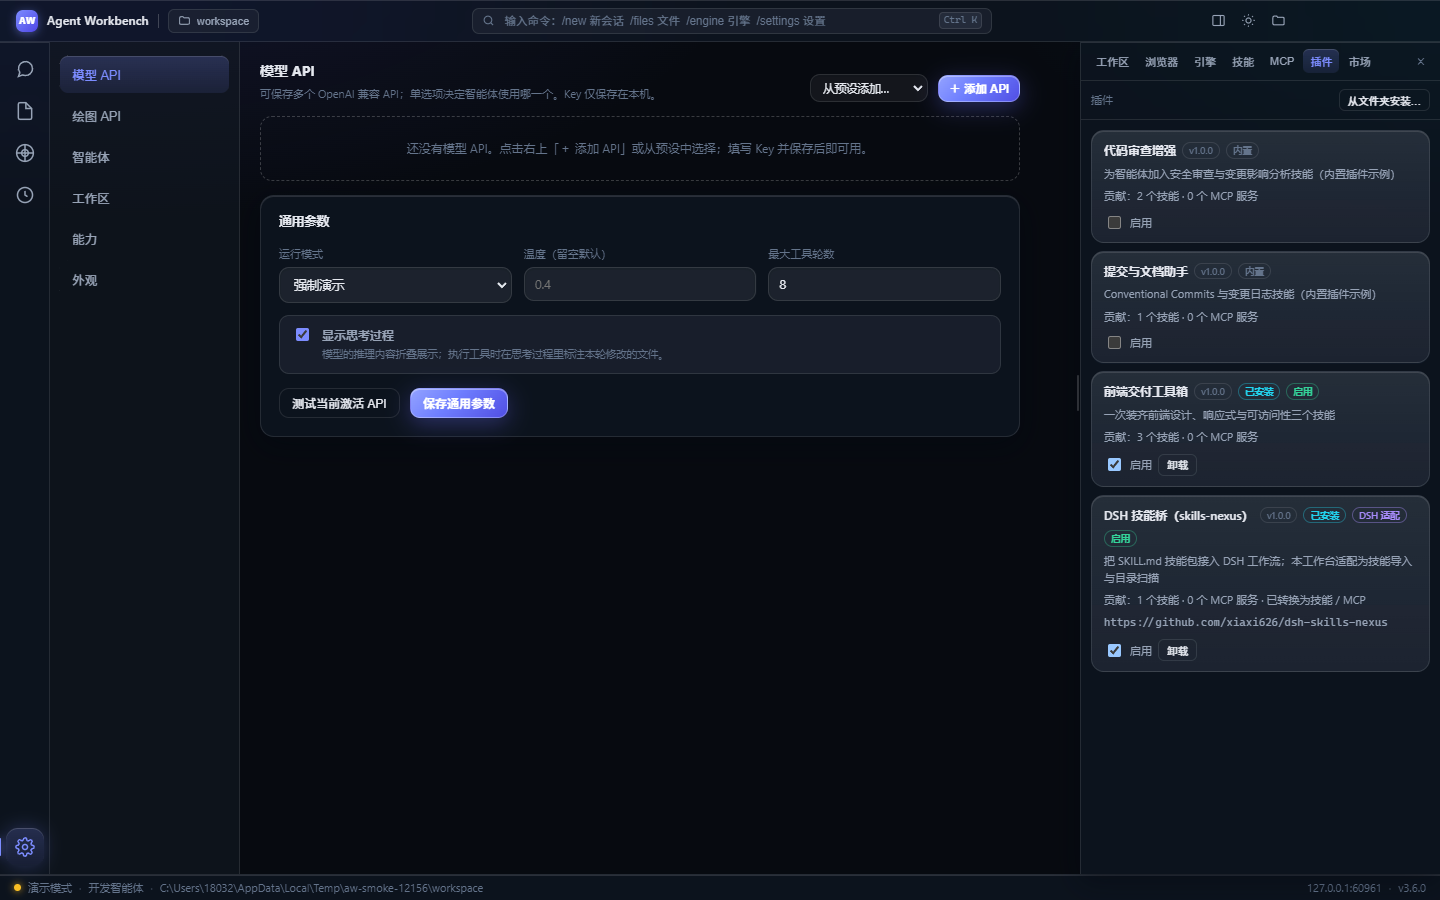
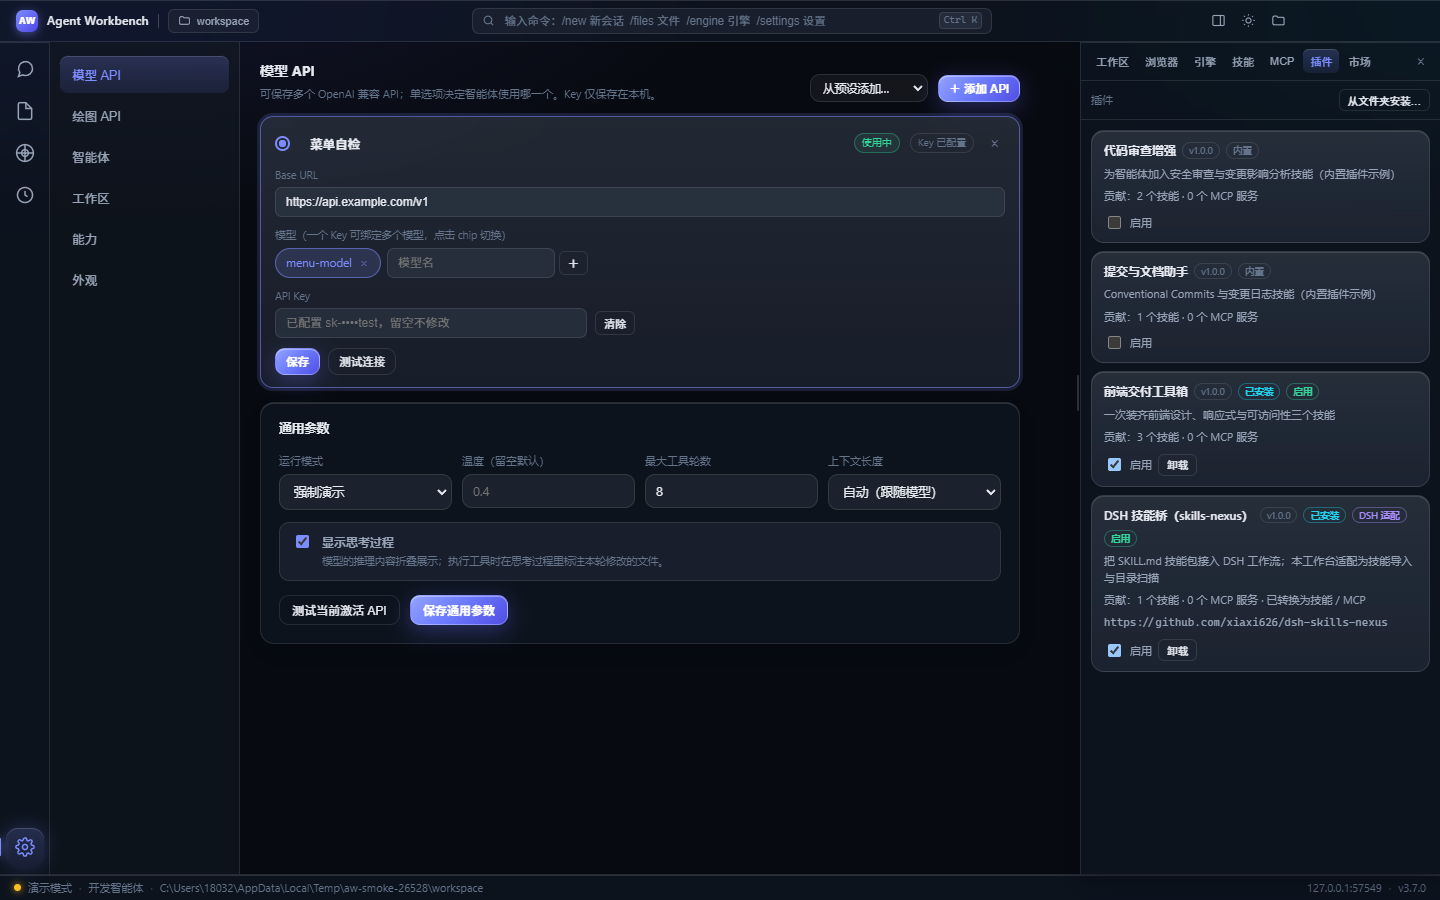
docs: v3.7.0 输入框模型/上下文、自动检测与界面精简

Changed region(s): [[0.1562, 0.1244, 0.7188, 0.7156], [0.6875, 0.4044, 0.7188, 0.4356], [0.5312, 0.28, 0.5625, 0.3111]]

diff --git a/README.md b/README.md
@@ -3,7 +3,7 @@
 > 一个把「对话、工具调用、智能体团队、网页 / 游戏创作引擎、技能、MCP 与插件市场」收进同一个桌面窗口的 AI 开发工作台。
 > 数据、模型密钥与项目文件全部留在本机，便携版解压即用。
 
-当前版本 **v3.6.0**，基于 Electron 33，主进程内嵌零依赖本地服务，界面为原生 HTML/CSS/JS，无前端构建链。
+当前版本 **v3.7.0**，基于 Electron 33，主进程内嵌零依赖本地服务，界面为原生 HTML/CSS/JS，无前端构建链。
 
 ![对话与工具时间线](screenshots/01-chat.png)
 
@@ -24,7 +24,7 @@ Agent Workbench 的思路是把整套开发闭环搬进桌面：
 
 | 模块 | 能力 |
 |---|---|
-| 对话 | SSE 流式输出；可折叠思考过程（可在设置关闭，并标注本轮修改的文件）；工具调用时间线；停止生成；Markdown 渲染；图片灯箱 |
+| 对话 | SSE 流式输出；可折叠思考过程（标注修改文件）；输入框右下角模型 / 上下文菜单；工具调用时间线；停止生成；Markdown 渲染；图片灯箱 |
 | 工具 | `list_dir` `read_file` `write_file` `search_files` `run_command` `generate_image` `web_engine`（最多 8 轮可调） |
 | 智能体 | 多个智能体，独立绑定模型、温度、工具白名单、技能与系统提示词 |
 | 智能体团队 | 负责人拆解子任务 → 成员按序执行 → 负责人汇总，聊天中展示分工卡片与成员流式输出 |
@@ -35,6 +35,14 @@ Agent Workbench 的思路是把整套开发闭环搬进桌面：
 | 创作引擎 | 5 套网页模板 + 3 套 Canvas 游戏模板、独立预览服务器、保存热更新、静态诊断、浏览器运行错误回传（见下节） |
 | 外观 | iOS 液态玻璃、深/亮主题、自定义聊天背景、智能体与团队头像 |
 | 历史 | 会话持久化到本地；任务状态徽标（运行中 / 完成 / 中断 / 失败）与工具、文件统计；可回看、删除、导出 Markdown |
+
+## v3.7.0 更新
+
+- **模型与上下文放到输入框**：模型 chip 移到聊天输入框右下角，点击弹出菜单（参考 Qoder）：按接口分组列出全部模型，显示接口状态与检测到的上下文；下方可直接切换上下文长度（自动 / 8K / 32K / 64K / 128K），「自动」优先使用模型元数据，否则 32K。历史消息按上下文预算自动裁剪。
+- **对话右侧栏移除**：会话状态收为标题栏胶囊（运行中 / 已完成 / 已中断 / 失败 + 工具数），悬停查看消息、工具、文件、图片统计；聊天区更宽，更接近 Qoder 布局。
+- **模型 API 自动检测（参考 DSH）**：新建 API 填写 Base URL / Key 后点击「自动检测」，请求 `/models` 自动补全模型、过滤 embedding / 图像等非对话模型、读取 `context_length` 并推荐模型；自动识别 DeepSeek / 通义 / 智谱 / Kimi / OpenAI，鉴权失败明确提示 401/403。
+
+![输入框模型与上下文菜单](screenshots/18-model-menu.png)
 
 ## v3.6.0 更新
 
@@ -114,7 +122,7 @@ Agent Workbench 的思路是把整套开发闭环搬进桌面：
 
 ## 快速开始
 
-从 [Releases](https://github.com/1323107439/agent-workbench/releases/tag/v3.6.0) 下载 `AgentWorkbench-3.6.0-portable.exe`（约 71MB），双击即可运行，无需安装（未签名，SmartScreen 提示时选择"仍要运行"）。
+从 [Releases](https://github.com/1323107439/agent-workbench/releases/tag/v3.7.0) 下载 `AgentWorkbench-3.7.0-portable.exe`（约 71MB），双击即可运行，无需安装（未签名，SmartScreen 提示时选择"仍要运行"）。
 
 1. 标题栏文件夹按钮选择工作区；设置 → 模型 API 添加 OpenAI 兼容端点（OpenAI / DeepSeek / 通义 / 智谱 / Kimi / Ollama 预设，或手填 Base URL / Key / 模型）。
 2. 未填 Key 时自动进入演示模式：流式回复、扫描工作区、演示生图（本地 SVG），可先验证功能。
@@ -126,7 +134,7 @@ Agent Workbench 的思路是把整套开发闭环搬进桌面：
 ```bash
 npm install
 npm start          # 桌面窗口
-npm run smoke      # 无头自检（37 项，含截图）
+npm run smoke      # 无头自检（39 项，含截图）
 npm run build      # 打包 release/AgentWorkbench-<版本>-portable.exe
 ```
 
@@ -147,7 +155,7 @@ public/               液态玻璃界面（原生 HTML/CSS/JS，无构建）
 
 ## 质量验证
 
-- 开发版 `npm run smoke` 与打包版 `AgentWorkbench.exe --smoke`：**37 项全部通过**，覆盖多 API、技能、MCP、插件与市场、DSH 导入、DeepSeek 适配、团队会话、审批闭环、创作引擎（网页 / 游戏模板、预览服务器、热更新、诊断、模型调用闭环）、**真实绘图（尺寸被拒自动回退 / 测试接口）**、**思考流 / 历史任务状态 / 修改文件标注 / 思考开关**、**贪吃蛇在内置浏览器的 Canvas 绘制与键盘转向**、DOM 与玻璃样式、各视图截图。
+- 开发版 `npm run smoke` 与打包版 `AgentWorkbench.exe --smoke`：**39 项全部通过**，覆盖多 API、技能、MCP、插件与市场、DSH 导入、DeepSeek 适配、团队会话、审批闭环、创作引擎（网页 / 游戏模板、预览服务器、热更新、诊断、模型调用闭环）、**真实绘图（尺寸被拒自动回退 / 测试接口）**、**思考流 / 历史任务状态 / 修改文件标注 / 思考开关**、**贪吃蛇在内置浏览器的 Canvas 绘制与键盘转向**、**模型 / 上下文菜单与 8K↔自动切换**、**模型 API 自动检测（/models、过滤、上下文、401）**、DOM 与玻璃样式、各视图截图。
 - 5 套网页模板在真实浏览器逐套实测：控制台无错误、无横向溢出；价格/主题切换、Canvas 图表绘制、任务增删与持久化、文档搜索与代码复制均正常。
 
 ## 界面一览
@@ -158,6 +166,7 @@ public/               液态玻璃界面（原生 HTML/CSS/JS，无构建）
 | ![右侧 Dock](screenshots/06-dock.png) | ![外观与背景](screenshots/09-appearance.png) |
 | ![DSH 插件分类](screenshots/12-market-dsh.png) | ![创作引擎](screenshots/14-engine.png) |
 | ![游戏模板](screenshots/16-engine-games.png) | ![贪吃蛇实机](screenshots/17-game-play.png) |
+| ![模型与上下文菜单](screenshots/18-model-menu.png) | ![思考过程](screenshots/15-thinking.png) |
 
 ## 来源与许可
 
